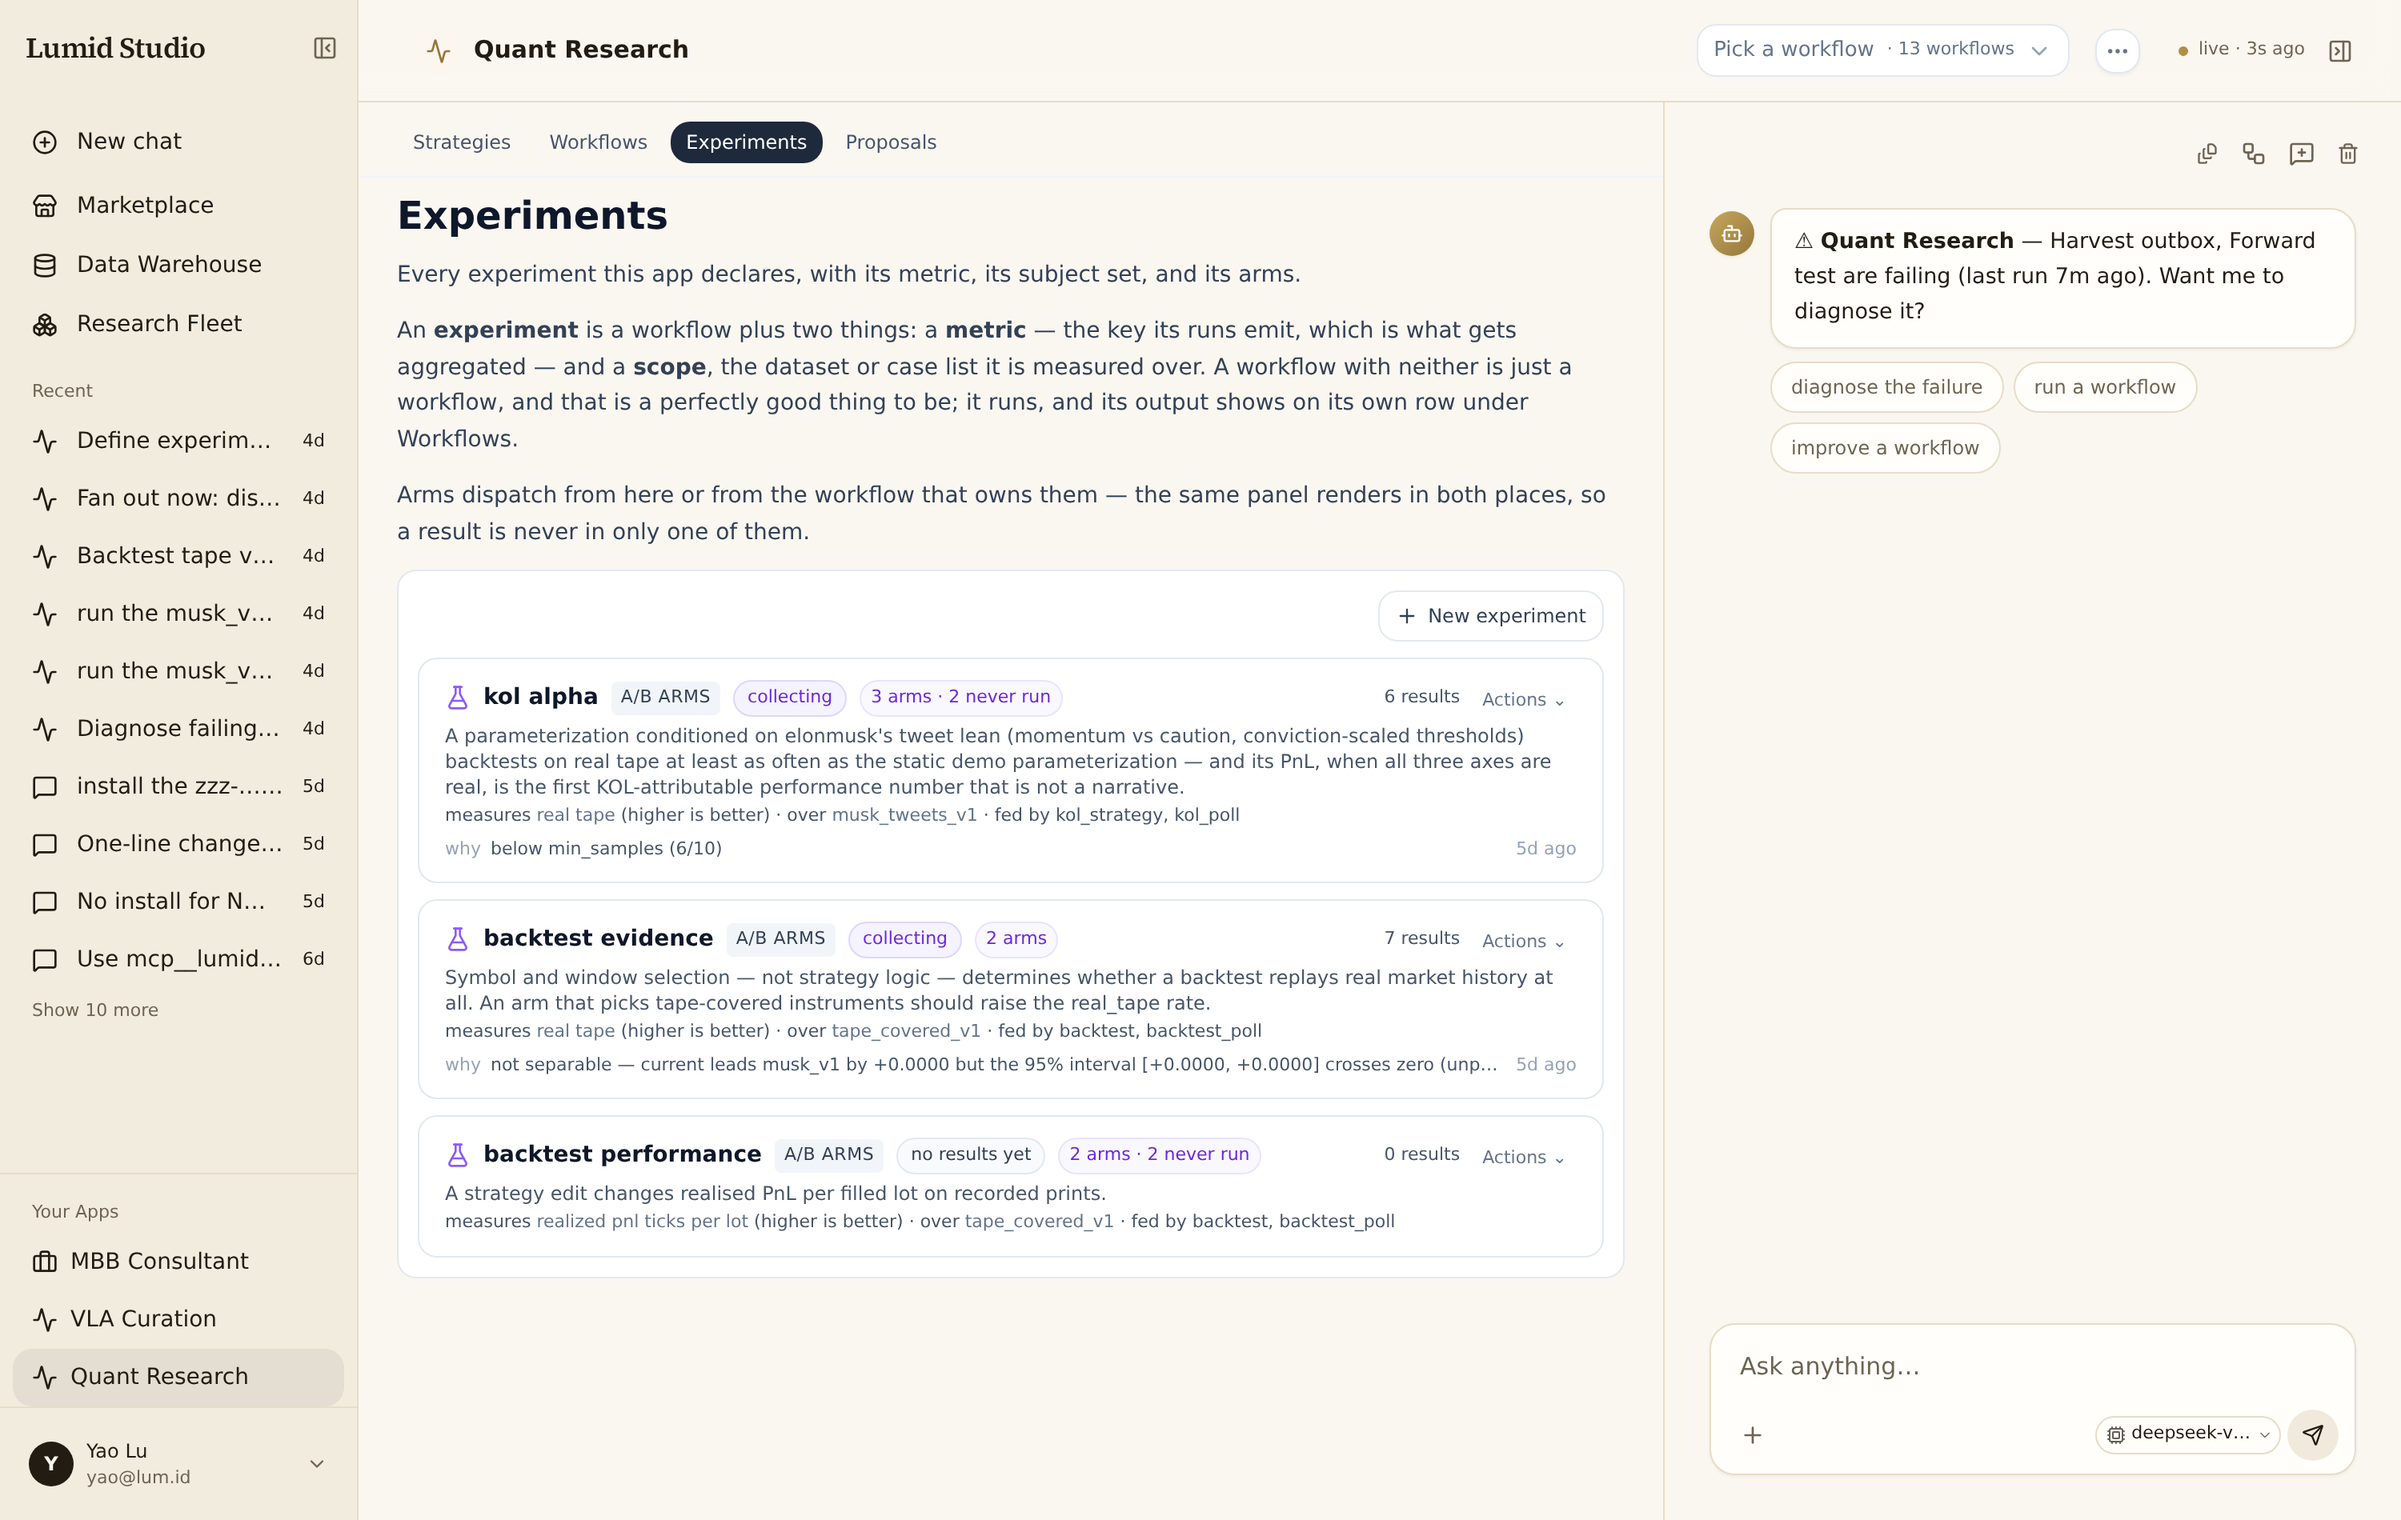
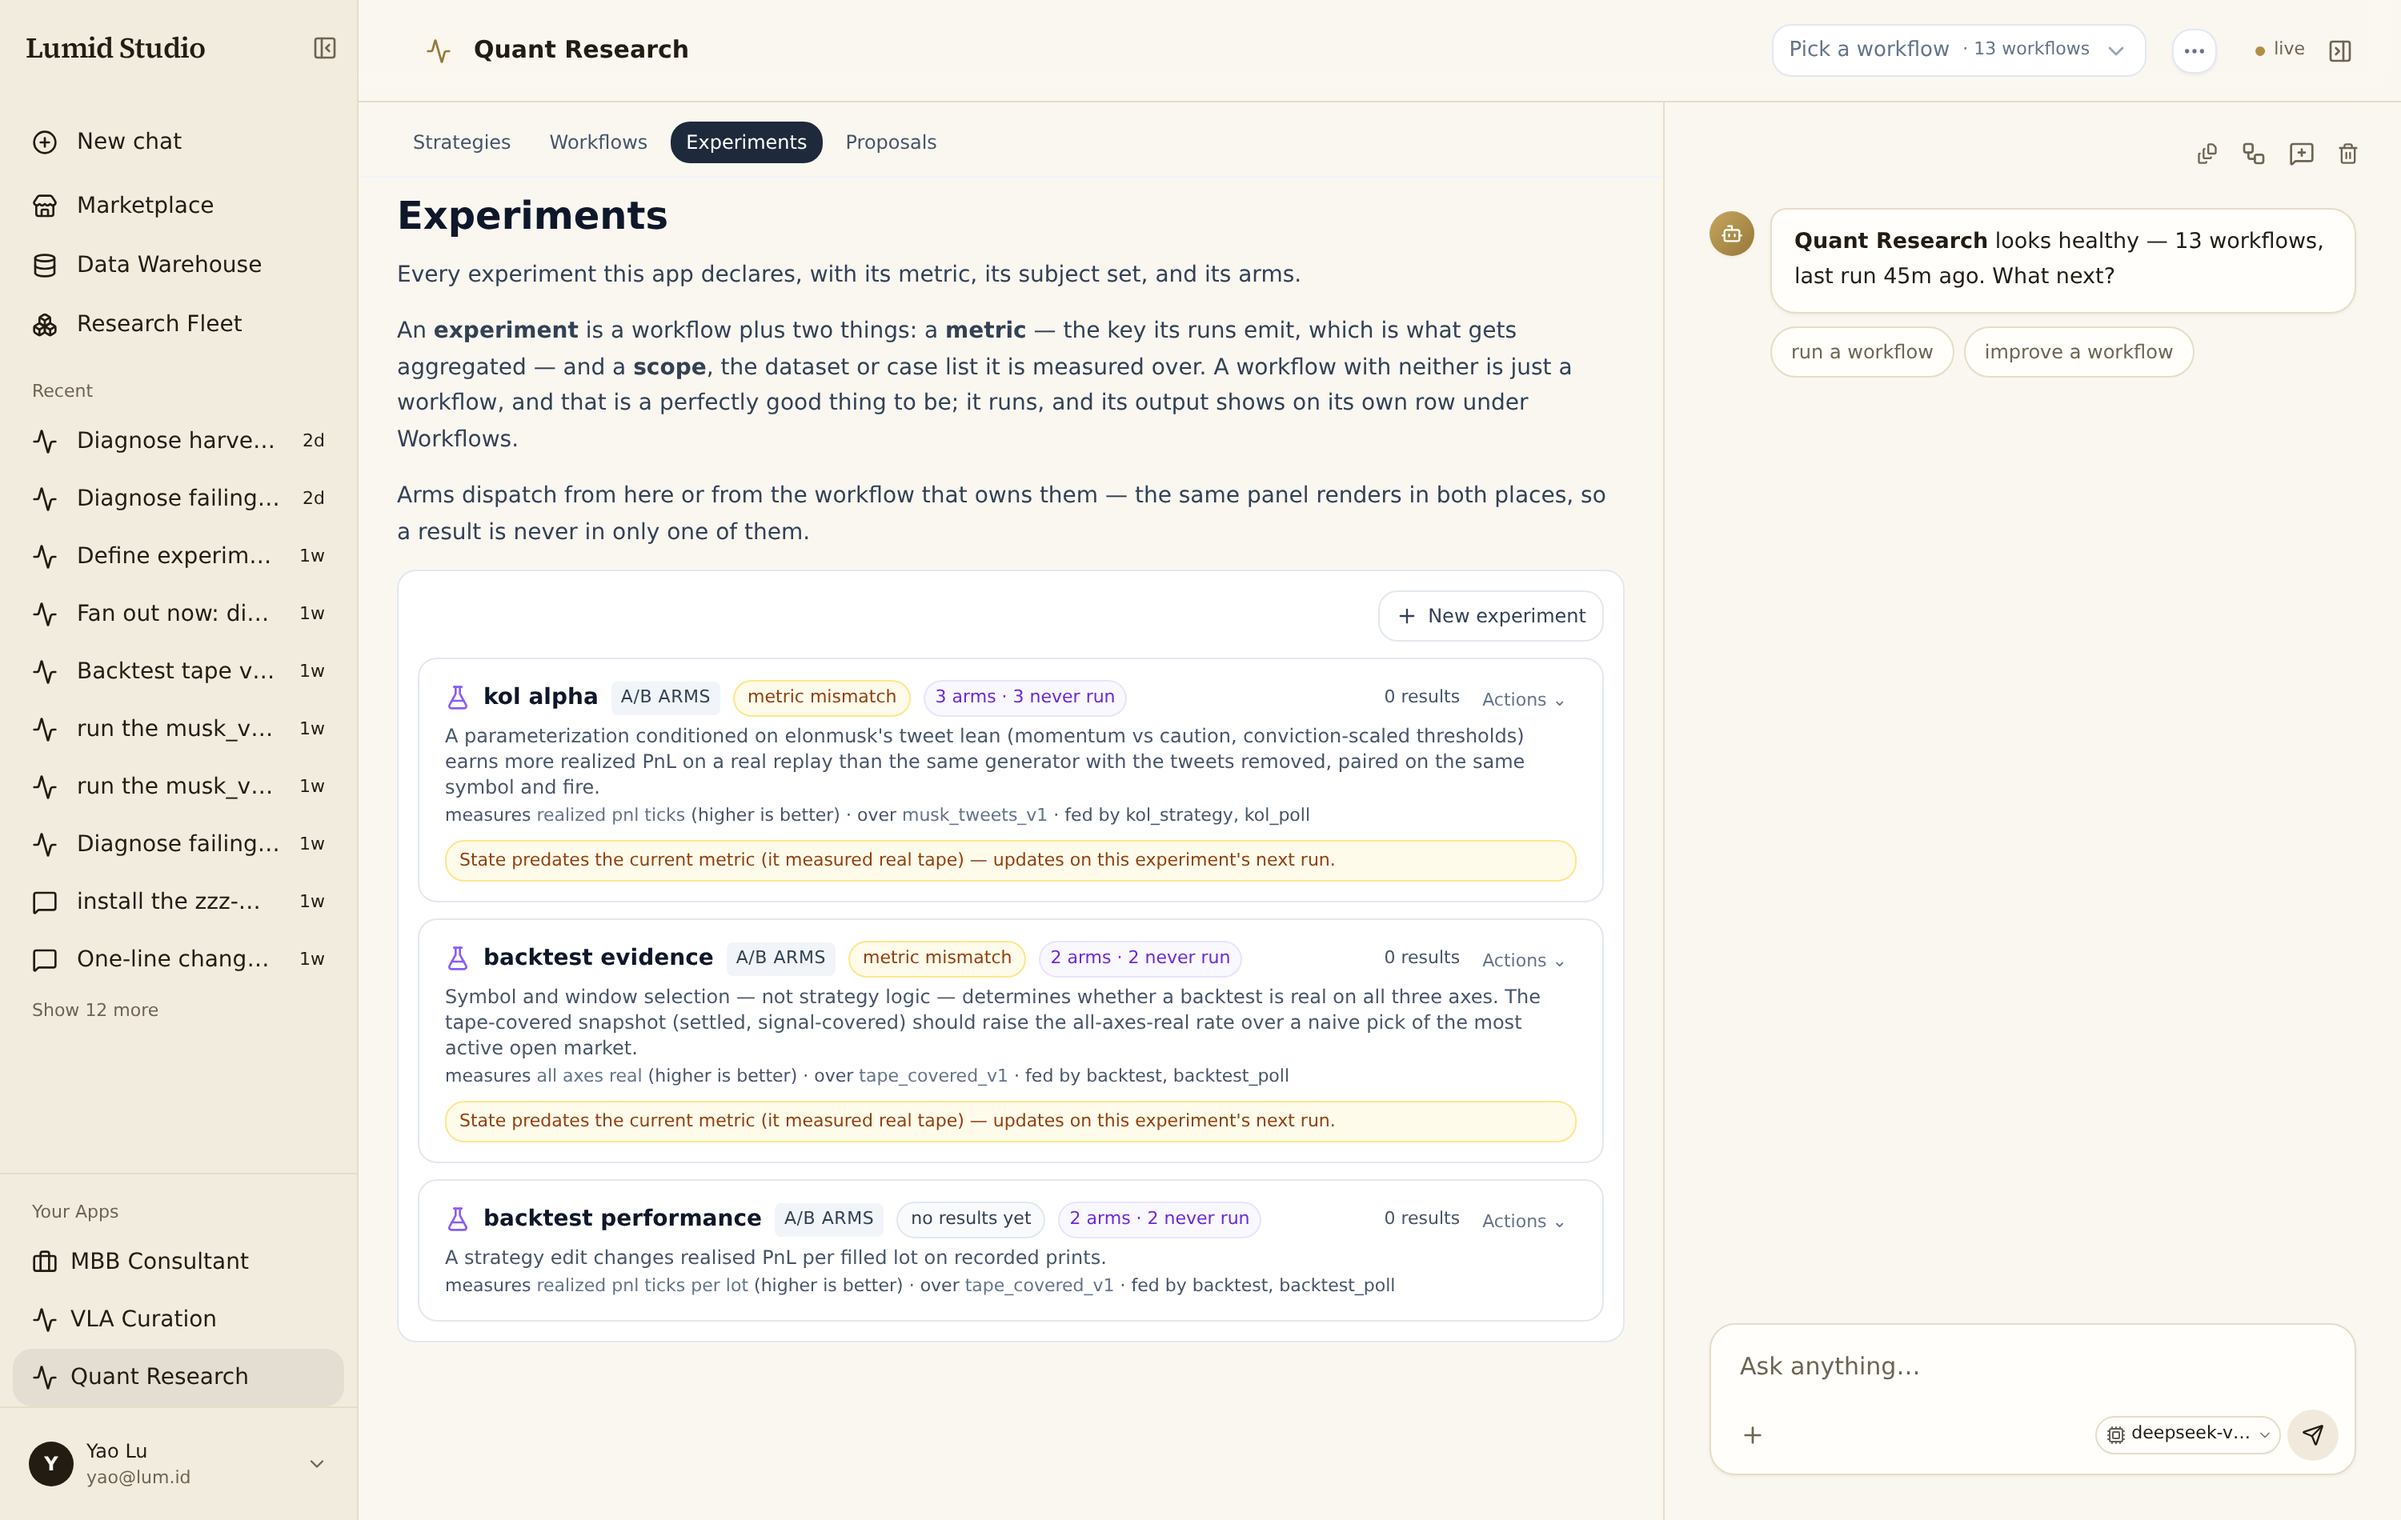
docs: re-shoot the Guide screenshots reproducibly, add §3/§10 images
26 images re-taken with lumid-e2e docs-shots.mjs (non-admin reader,
1500x950 @2x, each shot gated on the text that proves its surface
loaded). New: first-run-marketplace, first-run-mbb-modes,
first-run-mbb-interview-me.

Captions checked against the new images; five no longer described
them (forward-result, experiments-kol, experiments-workflows, the
import dialog's node count, the chat strategy turn now pausing on its
approval prompt). MBB prose said "Overview page"; the tab is Work.

Kept deliberately (their re-shoot would have documented an outage or a
regression, not the feature): workflows-panel-arms (office Lumilake
502), first-run-chat-analytics (the chat no longer routes that prompt
through lqt_mailbox_read), experiments-chat-results (analyst_local_gpu
ledger now empty).

diff --git a/public/docs/first-run.md b/public/docs/first-run.md
@@ -119,6 +119,8 @@ sidebar, find **Quant Research**, and click **Add to my account**. It is
 public, so nothing needs approving; once added, the button reads **Added ·
 Open**.
 
+![The Marketplace: Quant Research and MBB Consultant already added (Added · Open); the others still offer Add to my account.](/docs/img/first-run-marketplace.png)
+
 Afterwards it appears in the sidebar with **four tabs**:
 
 | tab | what it shows |
@@ -328,7 +330,7 @@ to **submit** the strategy, not to print one:
 > is above 0.15, with the threshold and size as params. Name it
 > `ofi_z_momentum_v1`.*
 
-![The chatbox returning a compilable .lqts strategy.](/docs/img/first-run-chat-strategy.png)
+![The chatbox drafting the .lqts and pausing on Allow / Always / Deny before it submits anything.](/docs/img/first-run-chat-strategy.png)
 
 **You will be asked to approve it.** Submitting is a write, so the chat pauses
 on an **Allow / Always / Deny** prompt and the turn blocks until you click.
@@ -519,7 +521,7 @@ Backtest results — read the three labels *before* the P&L, every time:
 
 Forward-test scorecards from the live paper arm:
 
-![Workflows → Forward test: the paper arm's reads.](/docs/img/first-run-forward-result-2.png)
+![Workflows → Forward test: no metric, so the card offers to make it an experiment; the Outputs tier, its two datasets, and runs that are NOT SCORED.](/docs/img/first-run-forward-result-2.png)
 
 And the **Analyze** loop, which is the decision funnel rather than P&L —
 proposed, submitted, rejected, and the top reject reason. This is where you
@@ -699,7 +701,7 @@ rather than assembling it yourself:
 
 ![The chat reading the results feed through lqt_mailbox_read to answer.](/docs/img/first-run-chat-analytics.png)
 
-*The chips are the tools running —`lqt_mailbox_read` against `results`,
+*The chips are the tools it ran in this turn — `lqt_mailbox_read` against `results`,
 `strategies` and `stats`. The chat is not guessing from the page, it is
 querying. **Read the scope, though: those three feeds are platform-wide.**
 `/xpio/results` carries no tenant column at all, and the `stats` and
@@ -804,7 +806,7 @@ Either route works:
 - **Any account** — Marketplace → search `mbb-consultant` → **Add to my account**.
 
 Give it 10–20 seconds. It is ready when the app appears in your sidebar under
-**Research** and its Overview page renders a case browser.
+**Your Apps** and its **Work** tab renders a case browser.
 
 *If the app says ready but every tab errors "app not found", it was installed
 under a bare name rather than its full `owner/name` slug, and the platform could
@@ -827,7 +829,7 @@ whether an arm is actually ahead.
 
 ### Pick a mode, then a case
 
-The Overview page is a case browser. Choose the mode **first** — it decides who
+The **Work** tab is a case browser. Choose the mode **first** — it decides who
 is asking whom, and it is the single choice that changes the whole session.
 
 | Mode | What happens | What you type | How it scores |
@@ -836,11 +838,19 @@ is asking whom, and it is the single choice that changes the whole session.
 | **AI answers a case** | The analyst works the case. You play the interviewer. | `next question`, or what the answer got wrong | Against that case's ground truth |
 | **Ask anything** | Your own question, no case file. Same analyst, same rubric. | Your consulting question | **Indicative only — no ground truth** |
 
+![The Work tab: the three modes, the case list, and the selected case's opening.](/docs/img/first-run-mbb-modes.png)
+
 Pick **AI interviews you** for your first session. It is the one that scores
 *you*, which is what most people came for. Pick a case, then press **Interview
 me** — that opens the chat
 already grounded in the case, so you do not paste anything or repeat the case
 name.
+
+![A case selected under AI interviews you: its client facts, four hidden questions, and the Interview me button.](/docs/img/first-run-mbb-interview-me.png)
+
+*The rail's greeting says "press Start"; the button is labelled **Interview me**
+in this mode (**Start case** for AI answers a case, **Ask a question** for Ask
+anything). They are the same control.*
 
 ### Work it in the chat
 

diff --git a/public/docs/workflows.md b/public/docs/workflows.md
@@ -160,7 +160,7 @@ tenants before it existed.
 
 Open a workflow row to see what a run produced.
 
-![KOL strategy's detail: kol_alpha under Metric & arms with its `why below min_samples (6/10)`, the Outputs tier reporting that the last run recorded no artifact, and the run tree.](/docs/img/experiments-workflows.png)
+![KOL strategy's detail: kol_alpha under Metric & arms flagged `metric mismatch` with its state predating the current metric, the Outputs tier reporting that the last run recorded no artifact, and the run tree.](/docs/img/experiments-workflows.png)
 
 - **Metric & arms** — the experiment this loop feeds, in place, so a result is
   never in only one of the two tabs.
@@ -280,7 +280,7 @@ The same chat that reads the experiment can change it. The loop is:
 **define → run → inspect → discuss → dispatch the next arm** — and every step of
 it is reachable in words.
 
-![Adding an arm from chat: the request, the tool call, and the confirmation.](/docs/img/experiments-chat-controlplane.png)
+![Adding an arm from chat: the request, the add_experiment_arm call, and the Allow / Always / Deny prompt it waits on before writing.](/docs/img/experiments-chat-controlplane.png)
 
 | Say | Reaches |
 |---|---|
@@ -389,7 +389,7 @@ An experiment reports what you declared. Reading it is still your job.
 parameterization survives recorded market history. Same machinery, and almost
 nothing else in common with the one above.
 
-![kol_alpha (shown as "kol alpha") on the Experiments tab of an install whose state predates the metric change — collecting, 3 arms with 2 never run, 6 results, still labelled "measures real tape".](/docs/img/experiments-kol.png)
+![kol_alpha (shown as "kol alpha") on the Experiments tab of an install whose state predates the metric change — `metric mismatch`, 3 arms never run, 0 results, and the card naming the keys its runs actually emitted.](/docs/img/experiments-kol.png)
 
 **Its metric changed on 2026-09-26, and why is the first lesson.** Until then
 it measured `real_tape`: `1` or `0`, did this backtest replay real market
@@ -677,9 +677,9 @@ claim the model is a step in the pipeline.
 
 **Import…** converts it, and the dialog says exactly what you are getting:
 
-![The import dialog: four of five n8n nodes not imported, each with the reason; credential and attachment warnings; and what FlowMesh's own parser would accept if you submitted the original instead.](/docs/img/workflow-import-dialog.png)
+![The import dialog: three of five n8n nodes not imported, each with the reason; credential and attachment warnings; and what FlowMesh's own parser would accept if you submitted the original instead.](/docs/img/workflow-import-dialog.png)
 
-This dialog is deliberately unflattering. Four of five nodes did not come
+This dialog is deliberately unflattering. Three of five nodes did not come
 across, and each one says why — including the one that is *not* a loss
 (`OpenAI Chat Model` is a model provider, so it was folded into the op it was
 attached to rather than becoming an orphan node).
